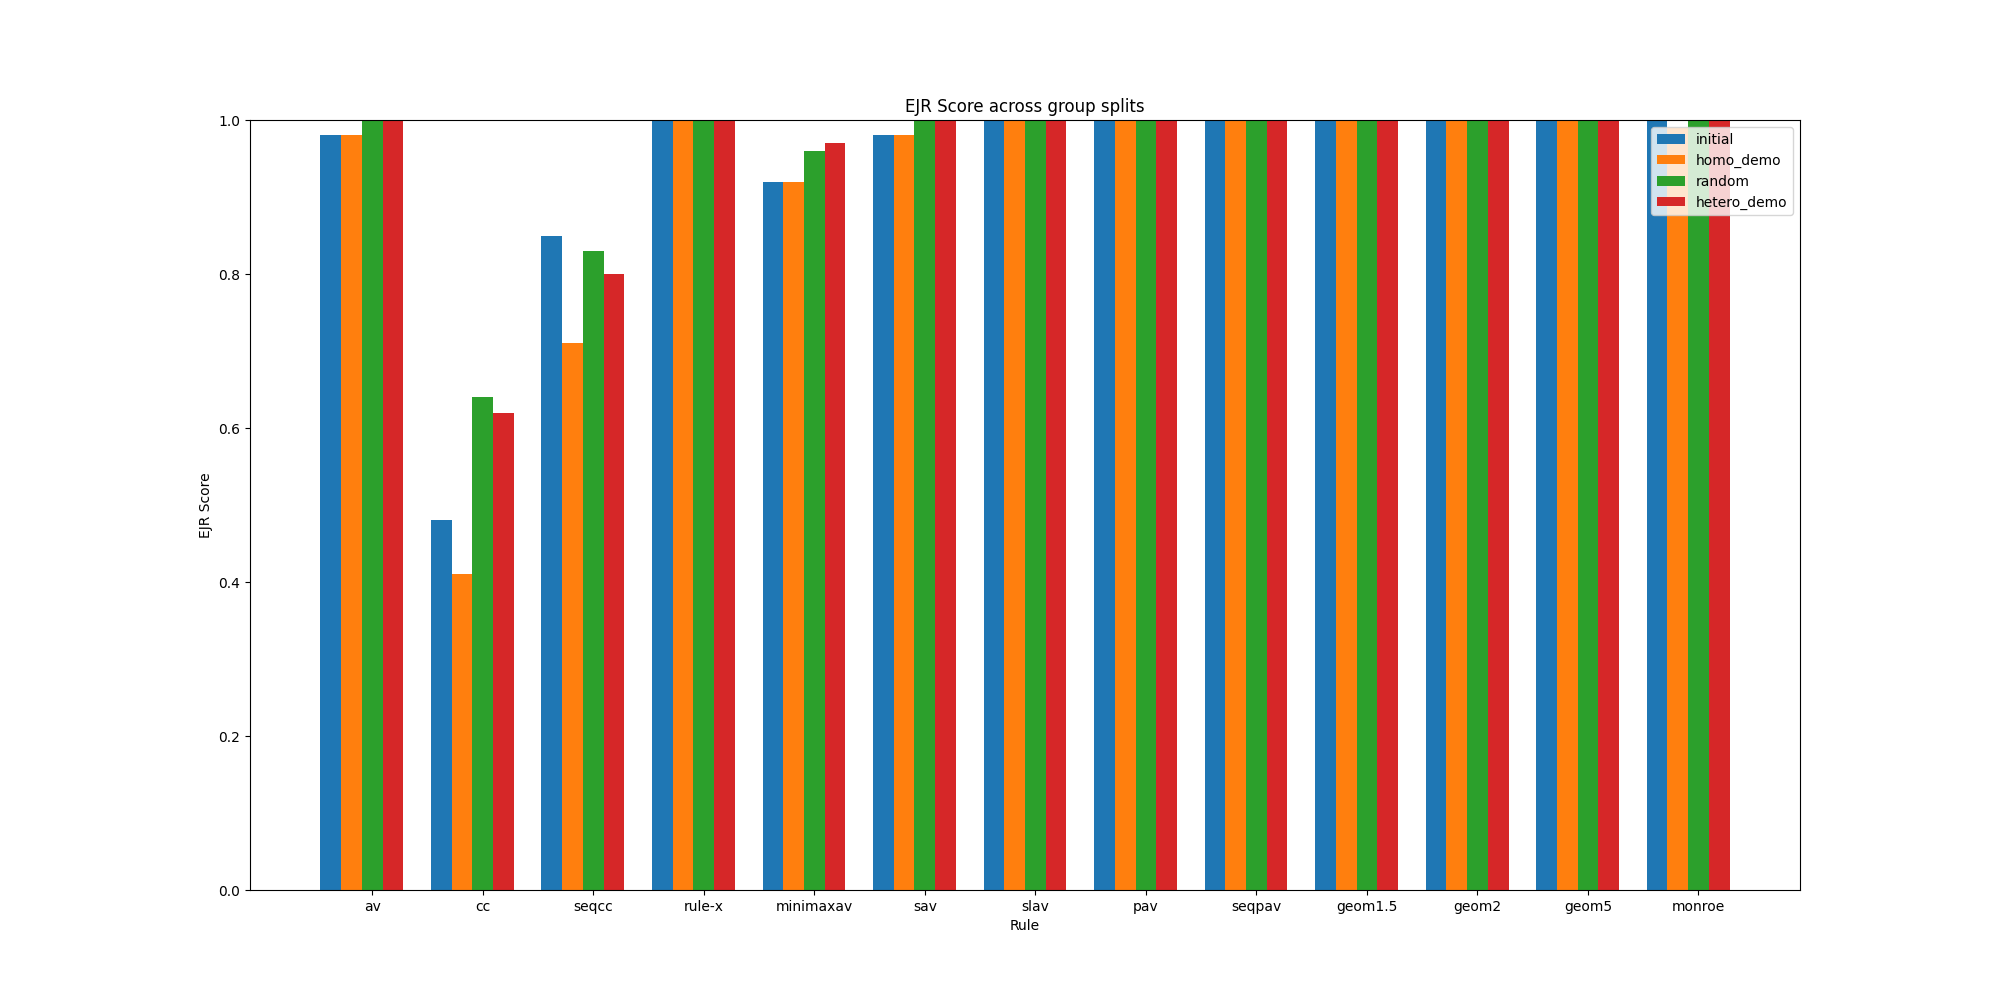
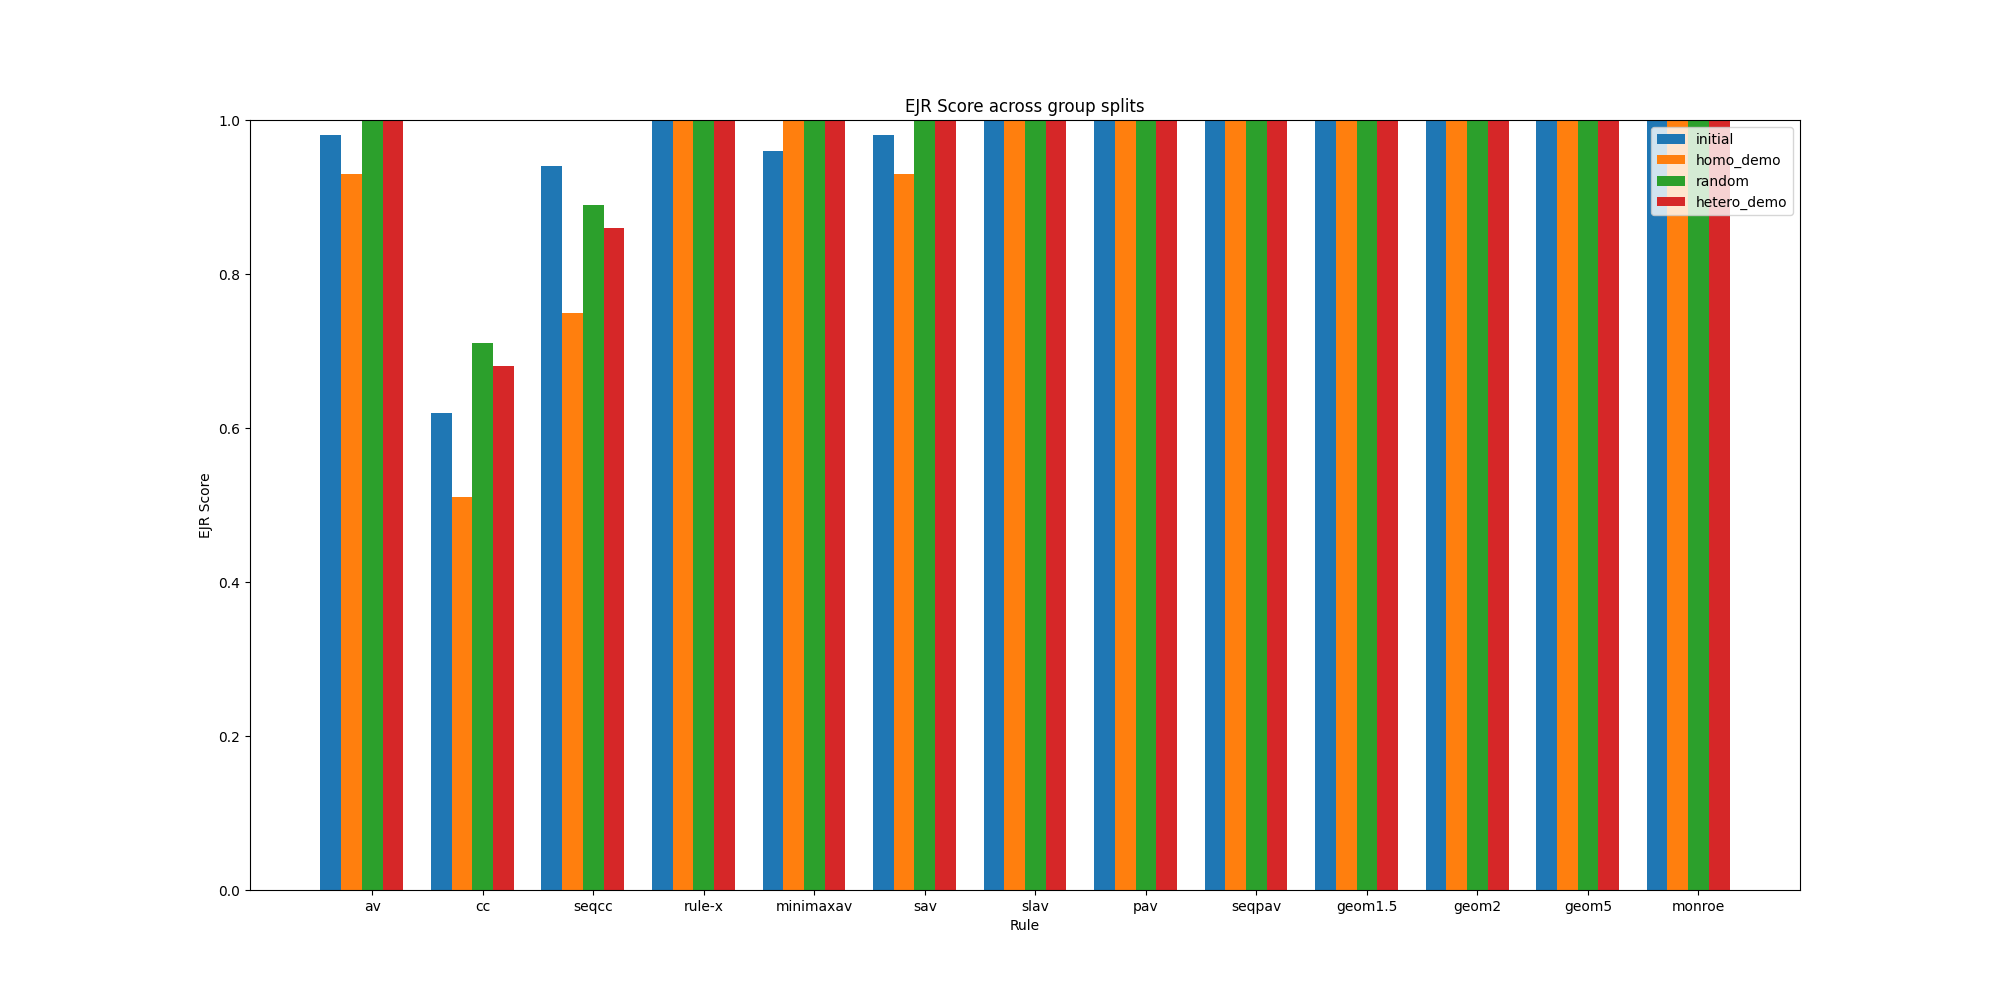
flexible ballot size and faster golfer

diff --git a/soc/generate_results.py b/soc/generate_results.py
@@ -3,6 +3,7 @@ from abcvoting.output import output, INFO, DETAILS, WARNING
 from svvamp import GeneratorProfileCubicUniform, Profile
 import numpy as np
 import csv
+import random
 from abcvoting.preferences import Profile as abcpf
 from tqdm import tqdm
 from approval_profile import ApprovalProfile
@@ -32,10 +33,11 @@ def save_boxplots(objectives_, setup):
         plt.ylabel(obj)
         plt.xlabel('Rule')
         plt.savefig(str.format("results/boxplots/{}_{}.png", setup, obj))
+        plt.close()
 
-def compute_objectives(utilities, setup):
+def compute_objectives(approval_sizes, utilities, setup):
     '''
-    Computes objectives for a given set of voting rules given the setup and profile utilities.
+    Computes objectives for a given set of voting rules given the setup, profile utilities, and approvals.
     Opinions and utilities are used interchangebly.
     '''
     output.set_verbosity(WARNING)
@@ -48,7 +50,7 @@ def compute_objectives(utilities, setup):
             objectives[obj][rule_id] = []
     
     for n in tqdm(range(num_simulations)):
-        profile = ApprovalProfile(num_agents, num_alternatives, num_winners, num_approval, utilities[n])
+        profile = ApprovalProfile(num_agents, num_alternatives, num_winners, approval_sizes[n], utilities[n])
         cc_committee = abcrules.compute("cc", profile.profile_abc, committeesize=num_winners, resolute=True)[0]
         av_committee = abcrules.compute("av", profile.profile_abc, committeesize=num_winners, resolute=True)[0]
         optimal_representation = representation_score(cc_committee, profile) # cc_committee has optimal representation
@@ -78,20 +80,20 @@ def compute_objectives(utilities, setup):
             objectives_means['voter_coverage'][rule_id], objectives_means['voter_satisfaction'][rule_id], objectives_means['ejr_scores'][rule_id], 
             objectives_means['pjr_scores'][rule_id], objectives_means['jr_scores'][rule_id]])
 
-def check_profile_eligibility(utilities):
-    profile = ApprovalProfile(num_agents, num_alternatives, num_winners, num_approval, utilities)
+def check_profile_eligibility(utilities, approvals):
+    profile = ApprovalProfile(num_agents, num_alternatives, num_winners, approvals, utilities)
     cc_committee = abcrules.compute("cc", profile.profile_abc, committeesize=num_winners, resolute=True)[0]
     av_committee = abcrules.compute("av", profile.profile_abc, committeesize=num_winners, resolute=True)[0]
     optimal_representation = representation_score(cc_committee, profile)
     av_representation = representation_score(av_committee, profile)/optimal_representation
     cc_utility = utilitarian_score(list(cc_committee), profile)/profile.optimal_welfare
-    if cc_utility>eligibility_threshold or av_representation>eligibility_threshold:
+    if cc_utility>profile_eligibility_threshold or av_representation>profile_eligibility_threshold:
         return False
     else:
         return True
 
 def generate_results():
-
+    approval_sizes = []
     init_opinions = []
     final_opinions = {}
     for group_div in group_divisions:
@@ -100,20 +102,24 @@ def generate_results():
 
     while simulation_count<num_simulations:
         opinions = simulate_for_all_group_divs()
-        if check_profile_eligibility(opinions['initial_opinions'])==True:
+        approval = random.choices(approval_choices, k=num_agents)
+        #approval = np.random.normal(10, 2, num_agents)
+        #approval = [int(round(x)) for x in approval]
+        if check_profile_eligibility(opinions['initial_opinions'], approval)==True:
+            approval_sizes.append(approval)
             init_opinions.append(opinions['initial_opinions'])
             for group_div in group_divisions:
                 final_opinions[group_div].append(opinions['final_'+group_div])
             simulation_count+=1
         else:
             continue
-    
-    print("Generating baseline results for initial opinions...")
-    compute_objectives(init_opinions, "initial")
+    print('Average approval ballot size =',np.mean(approval_sizes))
+    print("Generating results for initial opinions...")
+    compute_objectives(approval_sizes, init_opinions, "initial")
 
-    print("Generating baseline results for final opinions...")
+    print("Generating results for final opinions...")
     for group_div in group_divisions:
         print("Setup:", group_div)
-        compute_objectives(final_opinions[group_div], "final_"+group_div)
+        compute_objectives(approval_sizes, final_opinions[group_div], "final_"+group_div)
 
 generate_results()

diff --git a/soc/golfer.py b/soc/golfer.py
@@ -2,10 +2,11 @@ import random
 import numpy as np
 from copy import deepcopy
 import math
+import time
 
 GENERATIONS = 30
 RANDOM_GENERATIONS = 2
-MAX_EXPLORE = 100
+MAX_EXPLORE = 5
 
 def social_golfer(groups, group_size, num_rounds):
     """
@@ -46,7 +47,7 @@ def social_golfer(groups, group_size, num_rounds):
             scored_groups = zip(option['groups'], option['group_scores'])
             sorted_scored_groups = sorted(scored_groups, key=lambda x: x[1], reverse=True)
             sorted_groups = [x[0] for x in sorted_scored_groups]
-            candidates.append(option)
+            #candidates.append(option)
             
             for i in range(group_size):
                 for j in range(group_size, num_golfers):
@@ -91,8 +92,7 @@ def social_golfer(groups, group_size, num_rounds):
         while(generation < GENERATIONS and best_option['score']>0):
             candidates = generate_candidates(options, weights)
             # sort candidates by score
-            candidates = sorted(candidates, key=lambda x: x['score'])
-            best_option = candidates[0]
+            best_option = min(candidates, key=lambda x: x['score'])
             # fliter candidates where score is less than or equal to best_option
             options = [x for x in candidates if x['score'] <= best_option['score']]
             random.shuffle(options)
@@ -107,5 +107,8 @@ def social_golfer(groups, group_size, num_rounds):
         update_weights(best_option['groups'], weights)
     
     return rounds, round_scores
-        
-#social_golfer(2, 3, 4)
+
+#time_start = time.time()
+social_golfer(10, 10, 5)
+#time_end = time.time()
+#print("Time: {}".format(time_end-time_start))

diff --git a/soc/approval_profile.py b/soc/approval_profile.py
@@ -4,19 +4,23 @@ from svvamp import GeneratorProfileCubicUniform, Profile
 import numpy as np
 from abcvoting.preferences import Profile as abcpf
 from tqdm import tqdm
+import random
 
 class ApprovalProfile():
-    def __init__(self, num_voters, num_candidates, committee_size, num_approval, utilities):
-        self.num_voters = num_voters
-        self.num_candidates = num_candidates
-        self.committee_size = committee_size
-        self.num_approval = num_approval
+    def __init__(self, num_agents, num_alternatives, num_winners, approvals, utilities):
+        self.num_agents = num_agents
+        self.num_alternatives = num_alternatives
+        self.num_winners = num_winners
+        self.approvals = approvals
 
         self.profile = Profile(preferences_ut=utilities)
+        self.profile_pref_topk = []
 
-        self.profile_pref_topk = self.profile.preferences_rk[:,:num_approval]
-        self.optimal_welfare_committee = np.argpartition(self.profile.total_utility_c, -committee_size)[-committee_size:]
+        for i in range(num_agents):
+            self.profile_pref_topk.append(self.profile.preferences_rk[i,:self.approvals[i]])
+        
+        self.optimal_welfare_committee = np.argpartition(self.profile.total_utility_c, -num_winners)[-num_winners:]
         self.optimal_welfare = self.profile.total_utility_c[self.optimal_welfare_committee].sum()
 
-        self.profile_abc = abcpf(num_cand=num_candidates)
+        self.profile_abc = abcpf(num_cand=num_alternatives)
         self.profile_abc.add_voters(self.profile_pref_topk)

diff --git a/soc/config.py b/soc/config.py
@@ -2,10 +2,15 @@ num_agents = 100
 majority = 0.8
 num_alternatives = 50
 num_winners = 5
-num_approval = 10
+
+approval_low = 3
+approval_high = 10
+#approval_choices = list(range(approval_low, approval_high+1))
+approval_choices = [9,10,11]
+
 num_simulations = 100
 group_size = 10
-eligibility_threshold = 0.9
+profile_eligibility_threshold = 0.9
 
 phi = 0.2
 
